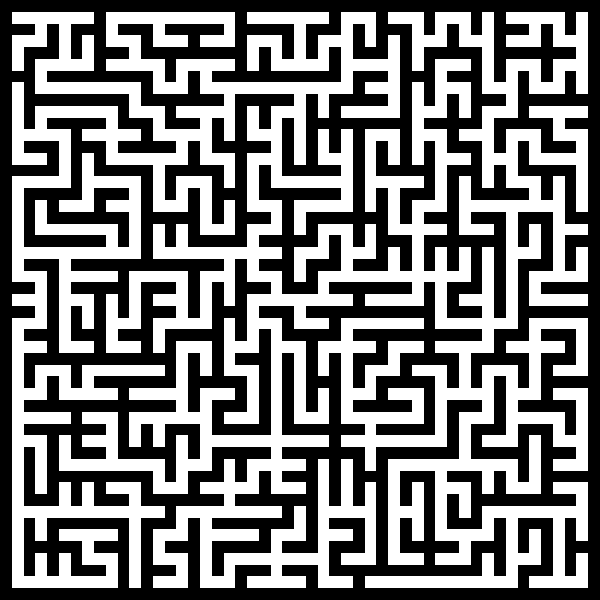
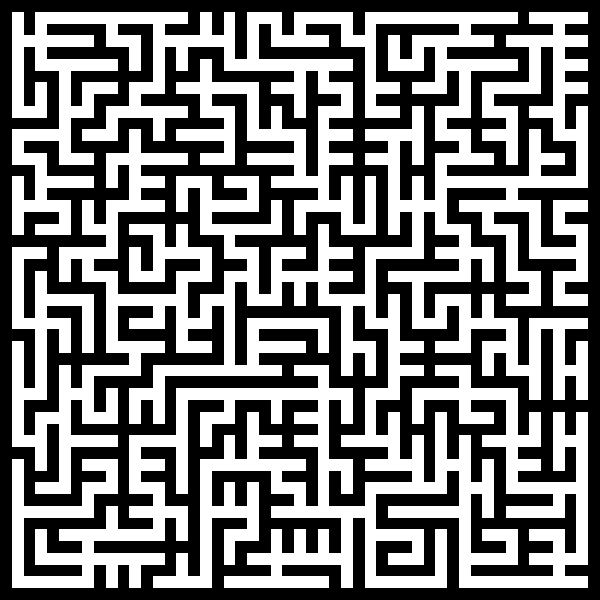
Hunt and kill (#2)
* Add files via upload

* Add files via upload

diff --git a/src/gen/hunt_and_kill.rs b/src/gen/hunt_and_kill.rs
@@ -1,0 +1,75 @@
+// External imports
+use rand::prelude::*;
+
+// Self imports
+use crate::gen::generator::Generator;
+use crate::grids::rect_grid::RectGrid;
+
+pub struct HuntAndKill {}
+
+impl Generator for HuntAndKill {
+    fn gen(maze: &mut RectGrid) {
+        let mut rng = thread_rng();
+
+        let mut cell_rc = maze.get_random_cell();
+
+        while cell_rc.is_some() {
+            let mut cell = cell_rc.as_ref().unwrap().borrow_mut();
+
+            // Get a list of the current cells unvisited neighbours.
+            let nb_dirs = cell.get_unlinked_neighbours();
+
+            // Choose a random neighbour.
+            match nb_dirs.choose(&mut rng) {
+                // If a neighbour was chosen (i.e. an unvisited neighbour existed), link to it.
+                Some(&nb_dir) => {
+                    let nb_rc = cell.get_neighbour(nb_dir);
+
+                    /*
+                    println!(
+                        "Neighbours: {:?} --> Linked: {:?} --> Unlinked: {:?} --> Choice: {:?}",
+                        cell.get_neighbours(),
+                        cell.get_linked(),
+                        cell.get_unlinked(),
+                        nb_dir
+                    );
+                     */
+
+                    cell.link(nb_dir);
+
+                    // Drop the mutable reference to the cell to allow 'cell_rc' to be reassigned.
+                    drop(cell);
+                    cell_rc = nb_rc;
+
+                    // println!("{}", maze);
+                }
+
+                None => {
+                    // Drop mutable reference to the cell to allow 'cell_rc' to be reassigned.
+                    drop(cell);
+                    cell_rc = None;
+
+                    for c_rc in maze.iter_cell() {
+                        let mut c = c_rc.borrow_mut();
+
+                        // If the current cell is unvisited check if it has any visited neighborus.
+                        if c.get_linked().is_empty() {
+                            let visited_neighbours = c.get_linked_neighbours();
+
+                            // If there are visited neighbours, link to one of them and set current cell as next cell.
+                            if !visited_neighbours.is_empty() {
+                                let nb_dir = visited_neighbours.choose(&mut rng).unwrap();
+                                c.link(*nb_dir);
+
+                                // Drop mutable reference to the cell to allow 'c_rc' to be reassigned.
+                                drop(c);
+                                cell_rc = Some(c_rc);
+                                break;
+                            }
+                        }
+                    }
+                }
+            }
+        }
+    }
+}

diff --git a/src/cells/cell.rs b/src/cells/cell.rs
@@ -61,6 +61,38 @@ impl Cell {
         res
     }
 
+    /// Return a Vector containing all Directions a neighbour with no links exists in.
+    pub fn get_unlinked_neighbours(&self) -> Vec<Direction> {
+        let mut result = Vec::new();
+        let nb_dirs = self.get_neighbours();
+
+        for nb_dir in nb_dirs {
+            let nb_rc = self.get_neighbour(nb_dir).unwrap();
+            let nb = nb_rc.borrow();
+
+            if nb.get_linked().is_empty() {
+                result.push(nb_dir);
+            }
+        }
+        result
+    }
+
+    /// Return a Vector containing all Directions a neighbour with links exists in.
+    pub fn get_linked_neighbours(&self) -> Vec<Direction> {
+        let mut result = Vec::new();
+        let nb_dirs = self.get_neighbours();
+
+        for nb_dir in nb_dirs {
+            let nb_rc = self.get_neighbour(nb_dir).unwrap();
+            let nb = nb_rc.borrow();
+
+            if !nb.get_linked().is_empty() {
+                result.push(nb_dir);
+            }
+        }
+        result
+    }
+
     /// Return true if a neighbour exists in a specified direction.
     pub fn neighbour_exists(&self, d: Direction) -> bool {
         self.neighbours.get(&d).unwrap().is_some()
@@ -73,9 +105,9 @@ impl Cell {
 
     /// Return the Directions of neighbours the current Cell isn't linked to.
     pub fn get_unlinked(&self) -> Vec<Direction> {
-        vec![N, S, E, W]
+        self.get_neighbours()
             .into_iter()
-            .filter(|d| self.neighbours.get(&d).is_some() && !self.links.contains(d))
+            .filter(|d| !self.links.contains(d))
             .collect()
     }
 

diff --git a/src/main.rs b/src/main.rs
@@ -3,9 +3,10 @@ use mazes::gen::generator::Generator;
 
 // Generation Algorithms
 use mazes::gen::aldous_broder::AldousBroder;
-use mazes::gen::binary_tree::BinaryTree;
-use mazes::gen::sidewinder::Sidewinder;
-use mazes::gen::wilsons::Wilsons;
+// use mazes::gen::binary_tree::BinaryTree;
+use mazes::gen::hunt_and_kill::HuntAndKill;
+// use mazes::gen::sidewinder::Sidewinder;
+// use mazes::gen::wilsons::Wilsons;
 
 // Maze
 use mazes::grids::rect_grid::RectGrid;

diff --git a/src/gen/mod.rs b/src/gen/mod.rs
@@ -1,5 +1,6 @@
 pub mod aldous_broder;
 pub mod binary_tree;
 pub mod generator;
+pub mod hunt_and_kill;
 pub mod sidewinder;
 pub mod wilsons;
